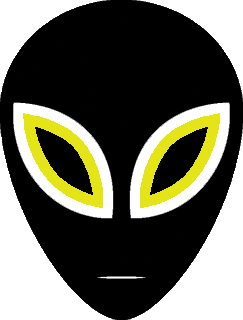
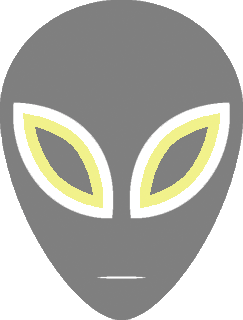
Added new state coords and set alien to 50% transparency.

diff --git a/ppa-major-coursework/src/ripley/view/MapPanel.java b/ppa-major-coursework/src/ripley/view/MapPanel.java
@@ -11,6 +11,7 @@ import java.util.ArrayList;
 
 import javax.imageio.ImageIO;
 import javax.swing.JButton;
+import javax.swing.JFrame;
 import javax.swing.JOptionPane;
 import javax.swing.JPanel;
 
@@ -82,12 +83,12 @@ public class MapPanel extends JPanel
 			// Create new SightingsInfoButton for state i
 			JButton btn = new SightingsInfoButton(i);
 			
-			alienHeight.add(32);
-			alienWidth.add(24);
+			alienHeight.add(MAX_HEIGHT);
+			alienWidth.add(MAX_WIDTH);
 			
 			// Set size of button
 			// TODO: Make button resizable
-			btn.setSize(32, 24);
+			btn.setSize(MAX_HEIGHT, MAX_WIDTH);
 			
 			// Set location of button to the location of the state as defined in model.SoftwareConstants
 			btn.setLocation(SoftwareConstants.COORDINATES[i][SoftwareConstants.X], 
@@ -184,5 +185,15 @@ public class MapPanel extends JPanel
 			g.drawImage(alien, SoftwareConstants.COORDINATES[i][SoftwareConstants.X],
 					SoftwareConstants.COORDINATES[i][SoftwareConstants.Y], alienWidth.get(i), alienHeight.get(i), this);
 		}
+	}
+	
+	public static void main(String[] args)
+	{
+		JFrame frame = new JFrame();
+		
+		frame.add(new MapPanel(SoftwareConstants.MAP_PATH, SoftwareConstants.ALIEN_PATH));
+		frame.setDefaultCloseOperation(JFrame.EXIT_ON_CLOSE);
+		frame.pack();
+		frame.setVisible(true);
 	}
 }
